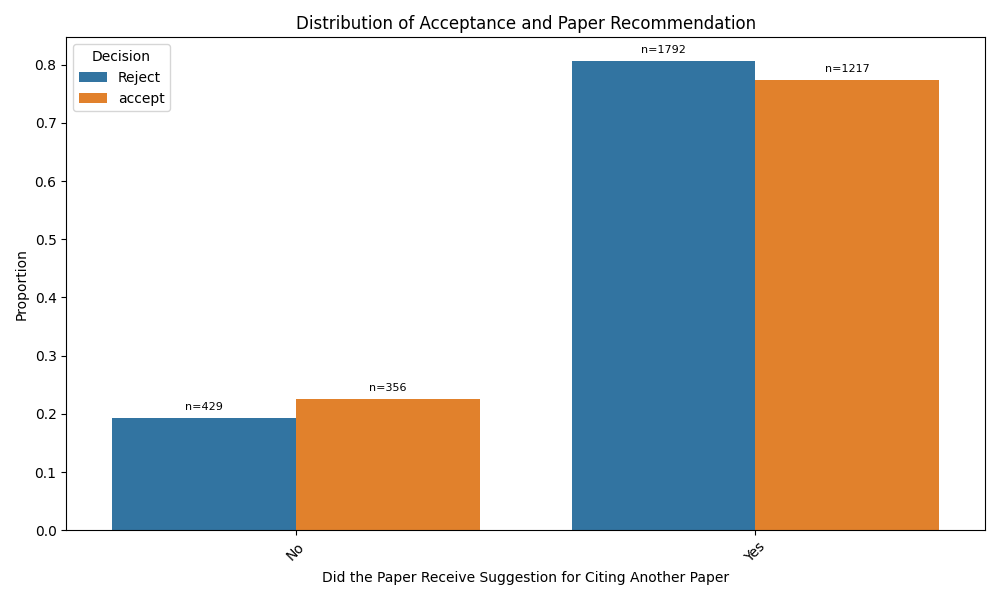
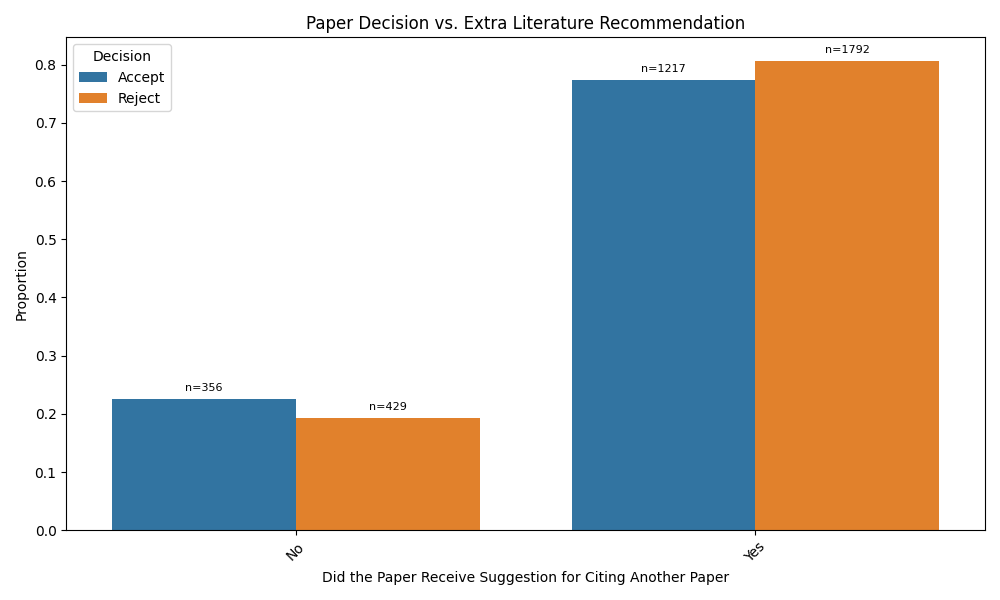
updated plots for paper decision and reviewer recommendation

Changed region(s): [[0.279, 0.03, 0.961, 0.15], [0.093, 0.63, 0.496, 0.72], [0.093, 0.09, 0.186, 0.18]]

diff --git a/README.md b/README.md
@@ -204,9 +204,10 @@ df.to_csv('ICLR2023_llama70b_with_rec_num_binary.csv', index=False)
 | Data                                                       | Chi-square statistic | P-value  |
 |------------------------------------------------------------|----------------------|----------|
 | Whether or not Reviewers Recommending Extra Literature     | 5.9710               | 0.0145   |
-| Number of Reviewers Recommending Extra Literature          | 35.6557              | < 0.0001 |
+| Number of Reviewers Recommending Extra Literature          | 35.6557              |< 0.0001  |
 
-![Distribution of Acceptance and Paper Recommendation](visualization/rec_acc_corr.png.png)
+![Paper Decision vs. Extra Literature Recommendation](visualization/rec_acc_corr.png)
+![Paper Decision vs. Number of Reviewers Recommending Extra Literature](visualization/rec_num_acc_corr.png)
 
 
 ### RQ C1: a. How often do authors agree to incorporate the citing suggestions from the reviewers? b. How often do authors incorporate the citing suggestions from the reviewers?
